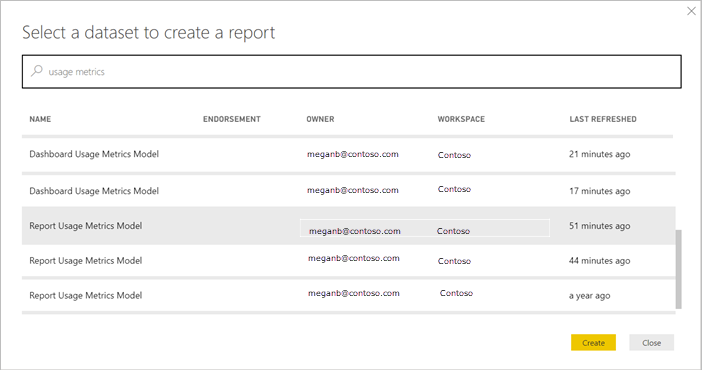
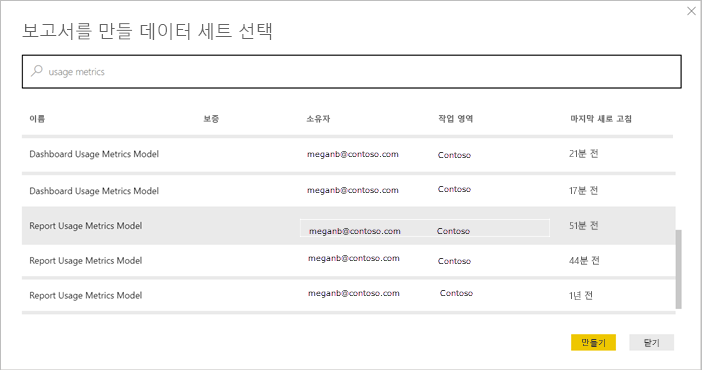
commit translated contents

diff --git a/powerbi-docs/paginated-reports/page-view.md b/powerbi-docs/paginated-reports/page-view.md
@@ -1,0 +1,62 @@
+---
+title: 페이지를 매긴 보고서의 보고서 뷰 설정 - Power BI
+description: 이 문서에서는 Power BI 서비스에서 페이지를 매긴 보고서에 사용할 수 있는 여러 보고서 뷰에 대해 알아봅니다.
+author: maggiesMSFT
+ms.author: maggies
+ms.reviewer: ''
+ms.service: powerbi
+ms.subservice: ''
+ms.topic: conceptual
+ms.date: 05/14/2020
+ms.openlocfilehash: 3816cfe4e1b61b9445e16d7c322c5ba19aa2bc3d
+ms.sourcegitcommit: 21b06e49056c2f69a363d3a19337374baa84c83f
+ms.translationtype: HT
+ms.contentlocale: ko-KR
+ms.lasthandoff: 05/15/2020
+ms.locfileid: "83407935"
+---
+# <a name="set-report-views-for-paginated-reports-in-the-power-bi-service"></a>Power BI 서비스에서 페이지를 매긴 보고서의 보고서 뷰 설정
+
+Power BI 서비스에서 페이지를 매긴 보고서를 렌더링할 때 기본 보기는 HTML 기반의 대화형 보기입니다. PDF 등의 고정 페이지 형식을 위한 다른 보고서 뷰는 새로운 페이지 보기 옵션입니다.
+
+**기본 대화형 보기**
+
+![기본 보기](media/page-view/power-bi-paginated-default-view.png)
+
+**페이지 보기**
+
+![페이지 보기](media/page-view/power-bi-paginated-page-view.png)
+
+페이지 보기에서 렌더링된 보고서는 기본 보기와 다르게 보입니다. 페이지를 매긴 보고서의 일부 속성 및 개념은 고정 페이지에만 적용됩니다. 이 보기는 보고서를 인쇄하거나 내보낼 때의 보기와 비슷합니다. 매개 변수 값과 같은 일부 요소를 여전히 변경할 수 있지만 열 정렬 및 토글 같은 다른 대화형 기능은 없습니다.
+
+페이지 보기는 브라우저의 PDF 뷰어에서 지원하는 확대, 축소 및 페이지에 맞추기와 같은 기능을 모두 지원합니다.
+
+## <a name="switch-to-page-view"></a>페이지 보기로 전환
+
+페이지를 매긴 보고서를 열면 기본적으로 대화형 보기에서 렌더링됩니다. 보고서에 매개 변수가 있는 경우에는 매개 변수를 선택한 다음 보고서를 봅니다.
+
+1. 도구 모음에서 **보기** > **페이지 보기**를 선택합니다.
+
+    ![페이지 보기로 전환](media/page-view/power-bi-paginated-page-view-dropdown.png)
+
+2. 도구 모음의 **보기** 메뉴에서 **페이지 설정**을 선택하여 페이지 보기의 설정을 변경할 수 있습니다. 
+
+    ![페이지 설정 선택](media/page-view/power-bi-paginated-page-settings-dropdown.png)
+    
+    **페이지 설정** 대화 상자에는 페이지 보기의 **페이지 크기** 및 **방향**을 설정하는 옵션이 있습니다. 페이지 설정을 적용한 후에는 나중에 페이지를 인쇄할 때 같은 옵션이 적용됩니다.
+   
+    ![페이지 설정 대화 상자](media/page-view/power-bi-paginated-page-settings-dialog.png)
+
+3. 대화형 보기로 다시 전환하려면 **보기** 드롭다운 상자에서 **기본값**을 선택합니다.
+
+## <a name="browser-support"></a>브라우저 지원
+
+페이지 보기는 Google Chrome 및 Microsoft Edge 브라우저에서 지원됩니다. 브라우저에서 PDF 보기를 사용하도록 설정해야 합니다. 이러한 브라우저에서는 기본적으로 설정되어 있습니다.
+
+Internet Explorer 및 Safari에서는 페이지 보기가 지원되지 않으므로 해당 옵션을 사용할 수 없습니다. 또한 모바일 디바이스의 브라우저나 네이티브 Power BI 모바일 앱에서도 지원되지 않습니다.  
+
+
+## <a name="next-steps"></a>다음 단계
+
+- [Power BI 서비스에서 페이지를 매긴 보고서 보기](../consumer/paginated-reports-view-power-bi-service.md)
+- [Power BI Premium에서 페이지를 매긴 보고서란?](paginated-reports-report-builder-power-bi.md)

diff --git a/powerbi-docs/developer/visuals/visual-project-structure.md b/powerbi-docs/developer/visuals/visual-project-structure.md
@@ -8,12 +8,12 @@ ms.service: powerbi
 ms.topic: conceptual
 ms.subservice: powerbi-custom-visuals
 ms.date: 01/12/2020
-ms.openlocfilehash: 18267f06bd43166cb1958d3aff73913a31189953
-ms.sourcegitcommit: 7aa0136f93f88516f97ddd8031ccac5d07863b92
+ms.openlocfilehash: ce0f22c17ed718d3e2ad4e4fa9d9514edd315583
+ms.sourcegitcommit: 21b06e49056c2f69a363d3a19337374baa84c83f
 ms.translationtype: HT
 ms.contentlocale: ko-KR
-ms.lasthandoff: 05/05/2020
-ms.locfileid: "80550757"
+ms.lasthandoff: 05/15/2020
+ms.locfileid: "83407427"
 ---
 # <a name="power-bi-visual-project-structure"></a>Power BI 시각적 개체 프로젝트 구조
 
